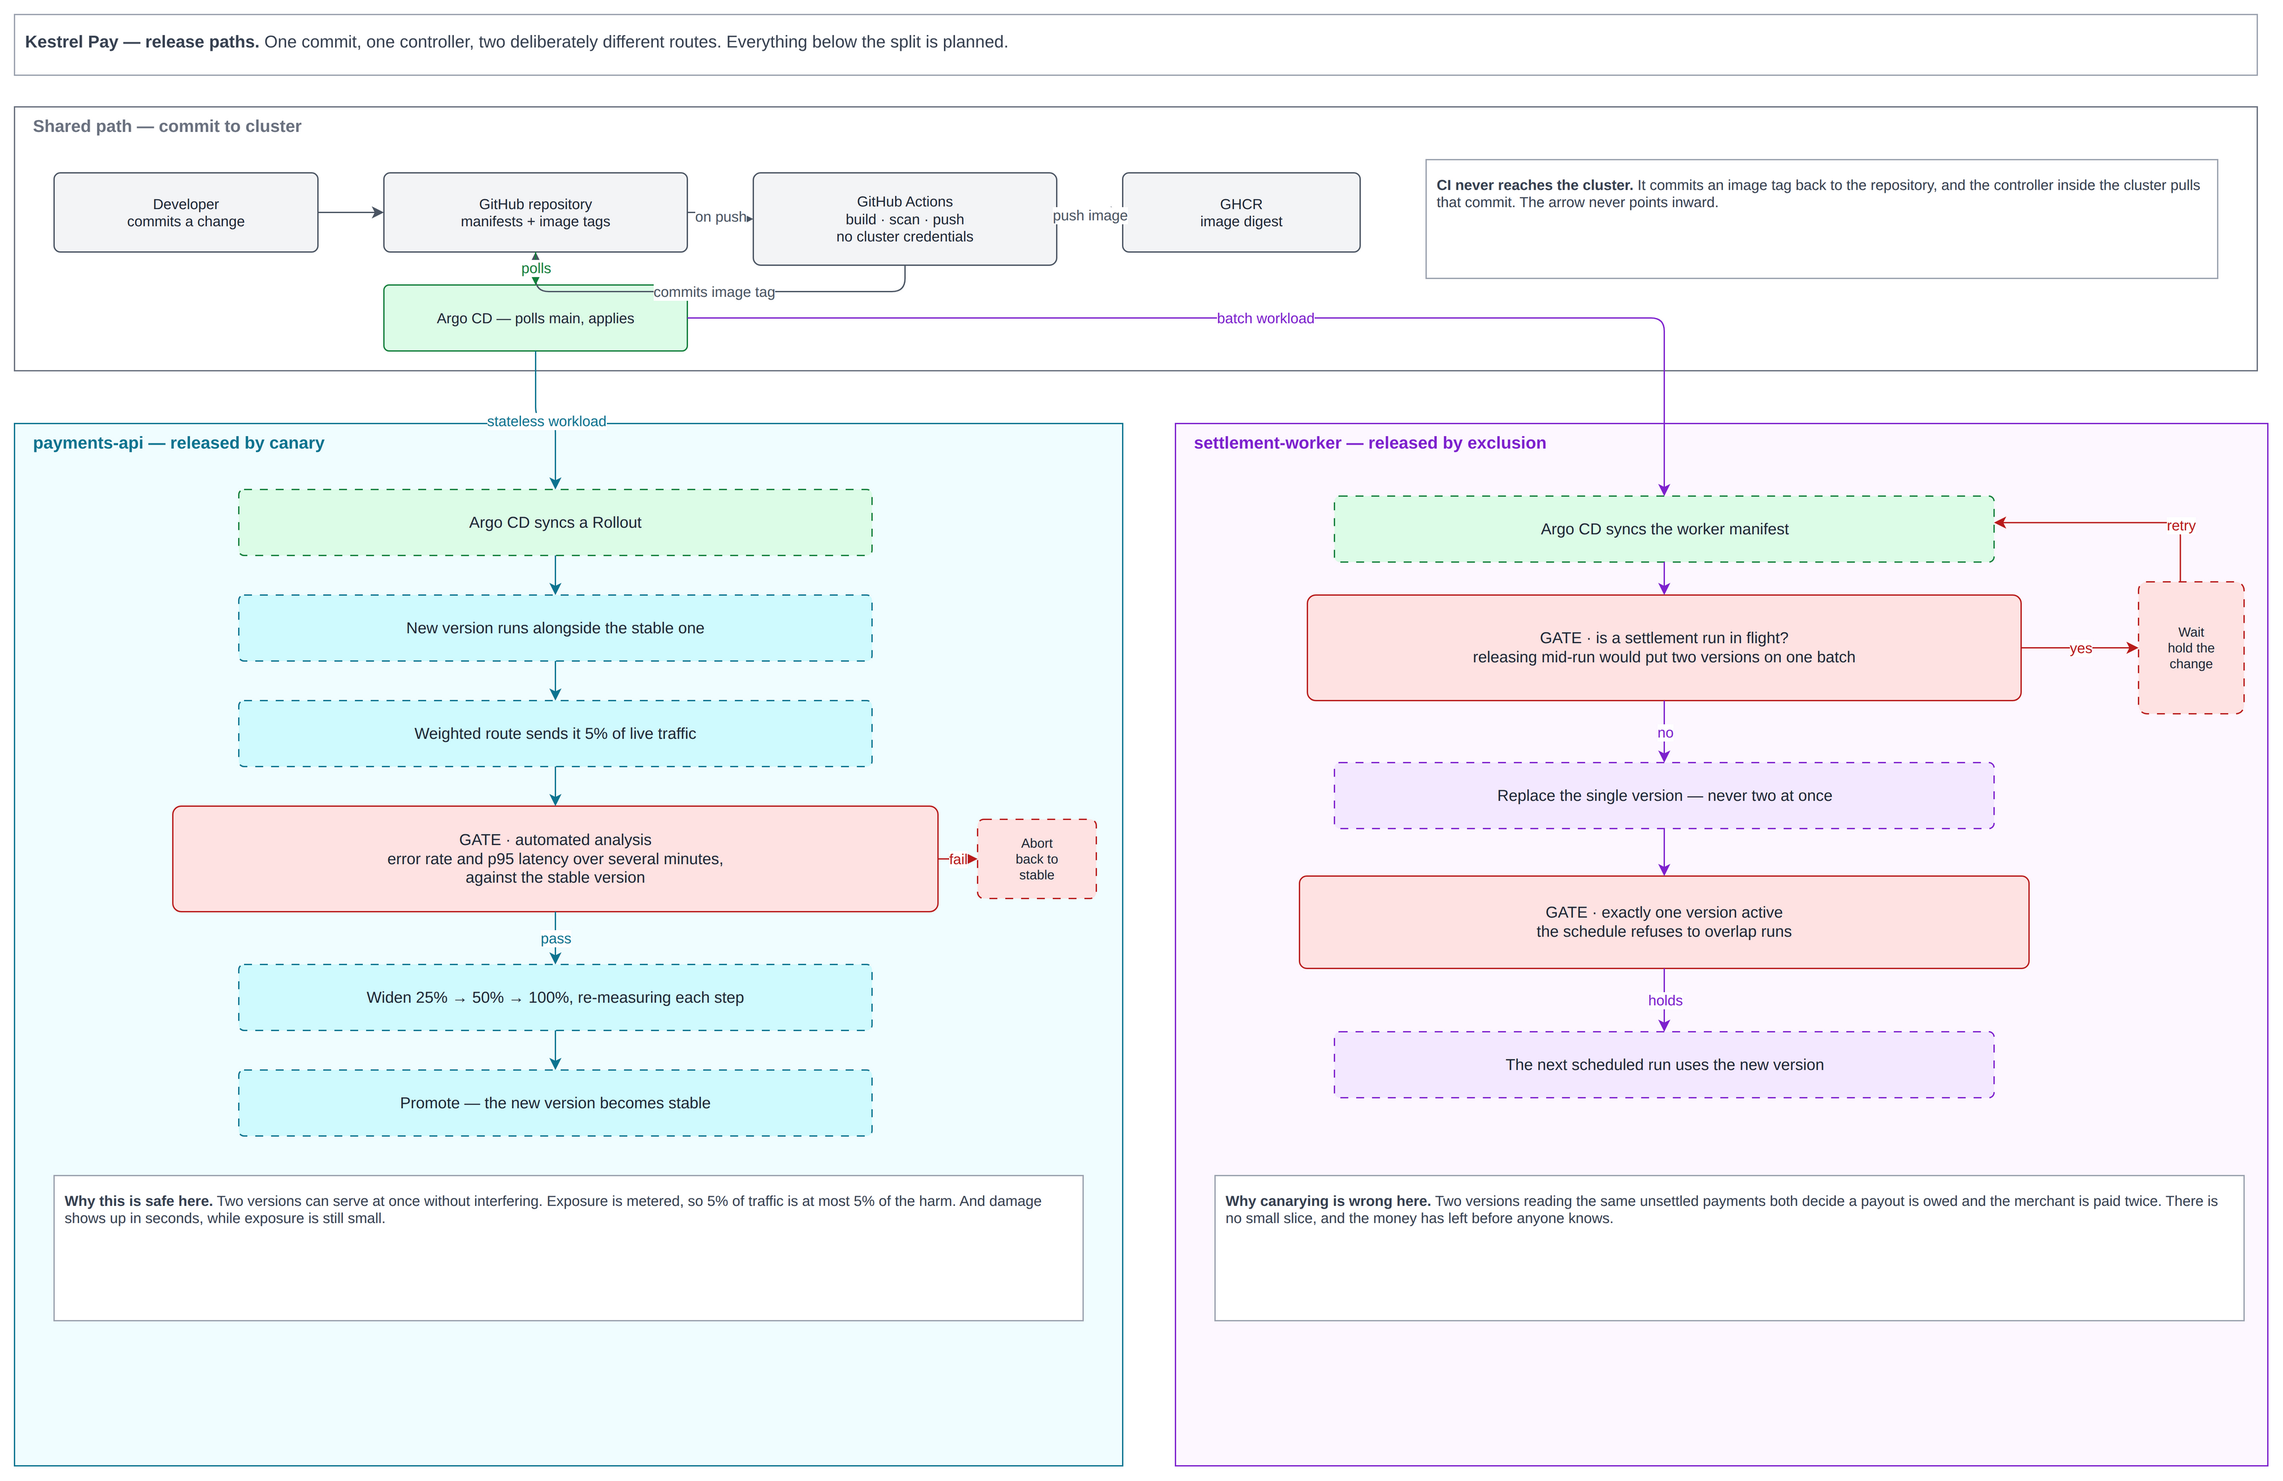
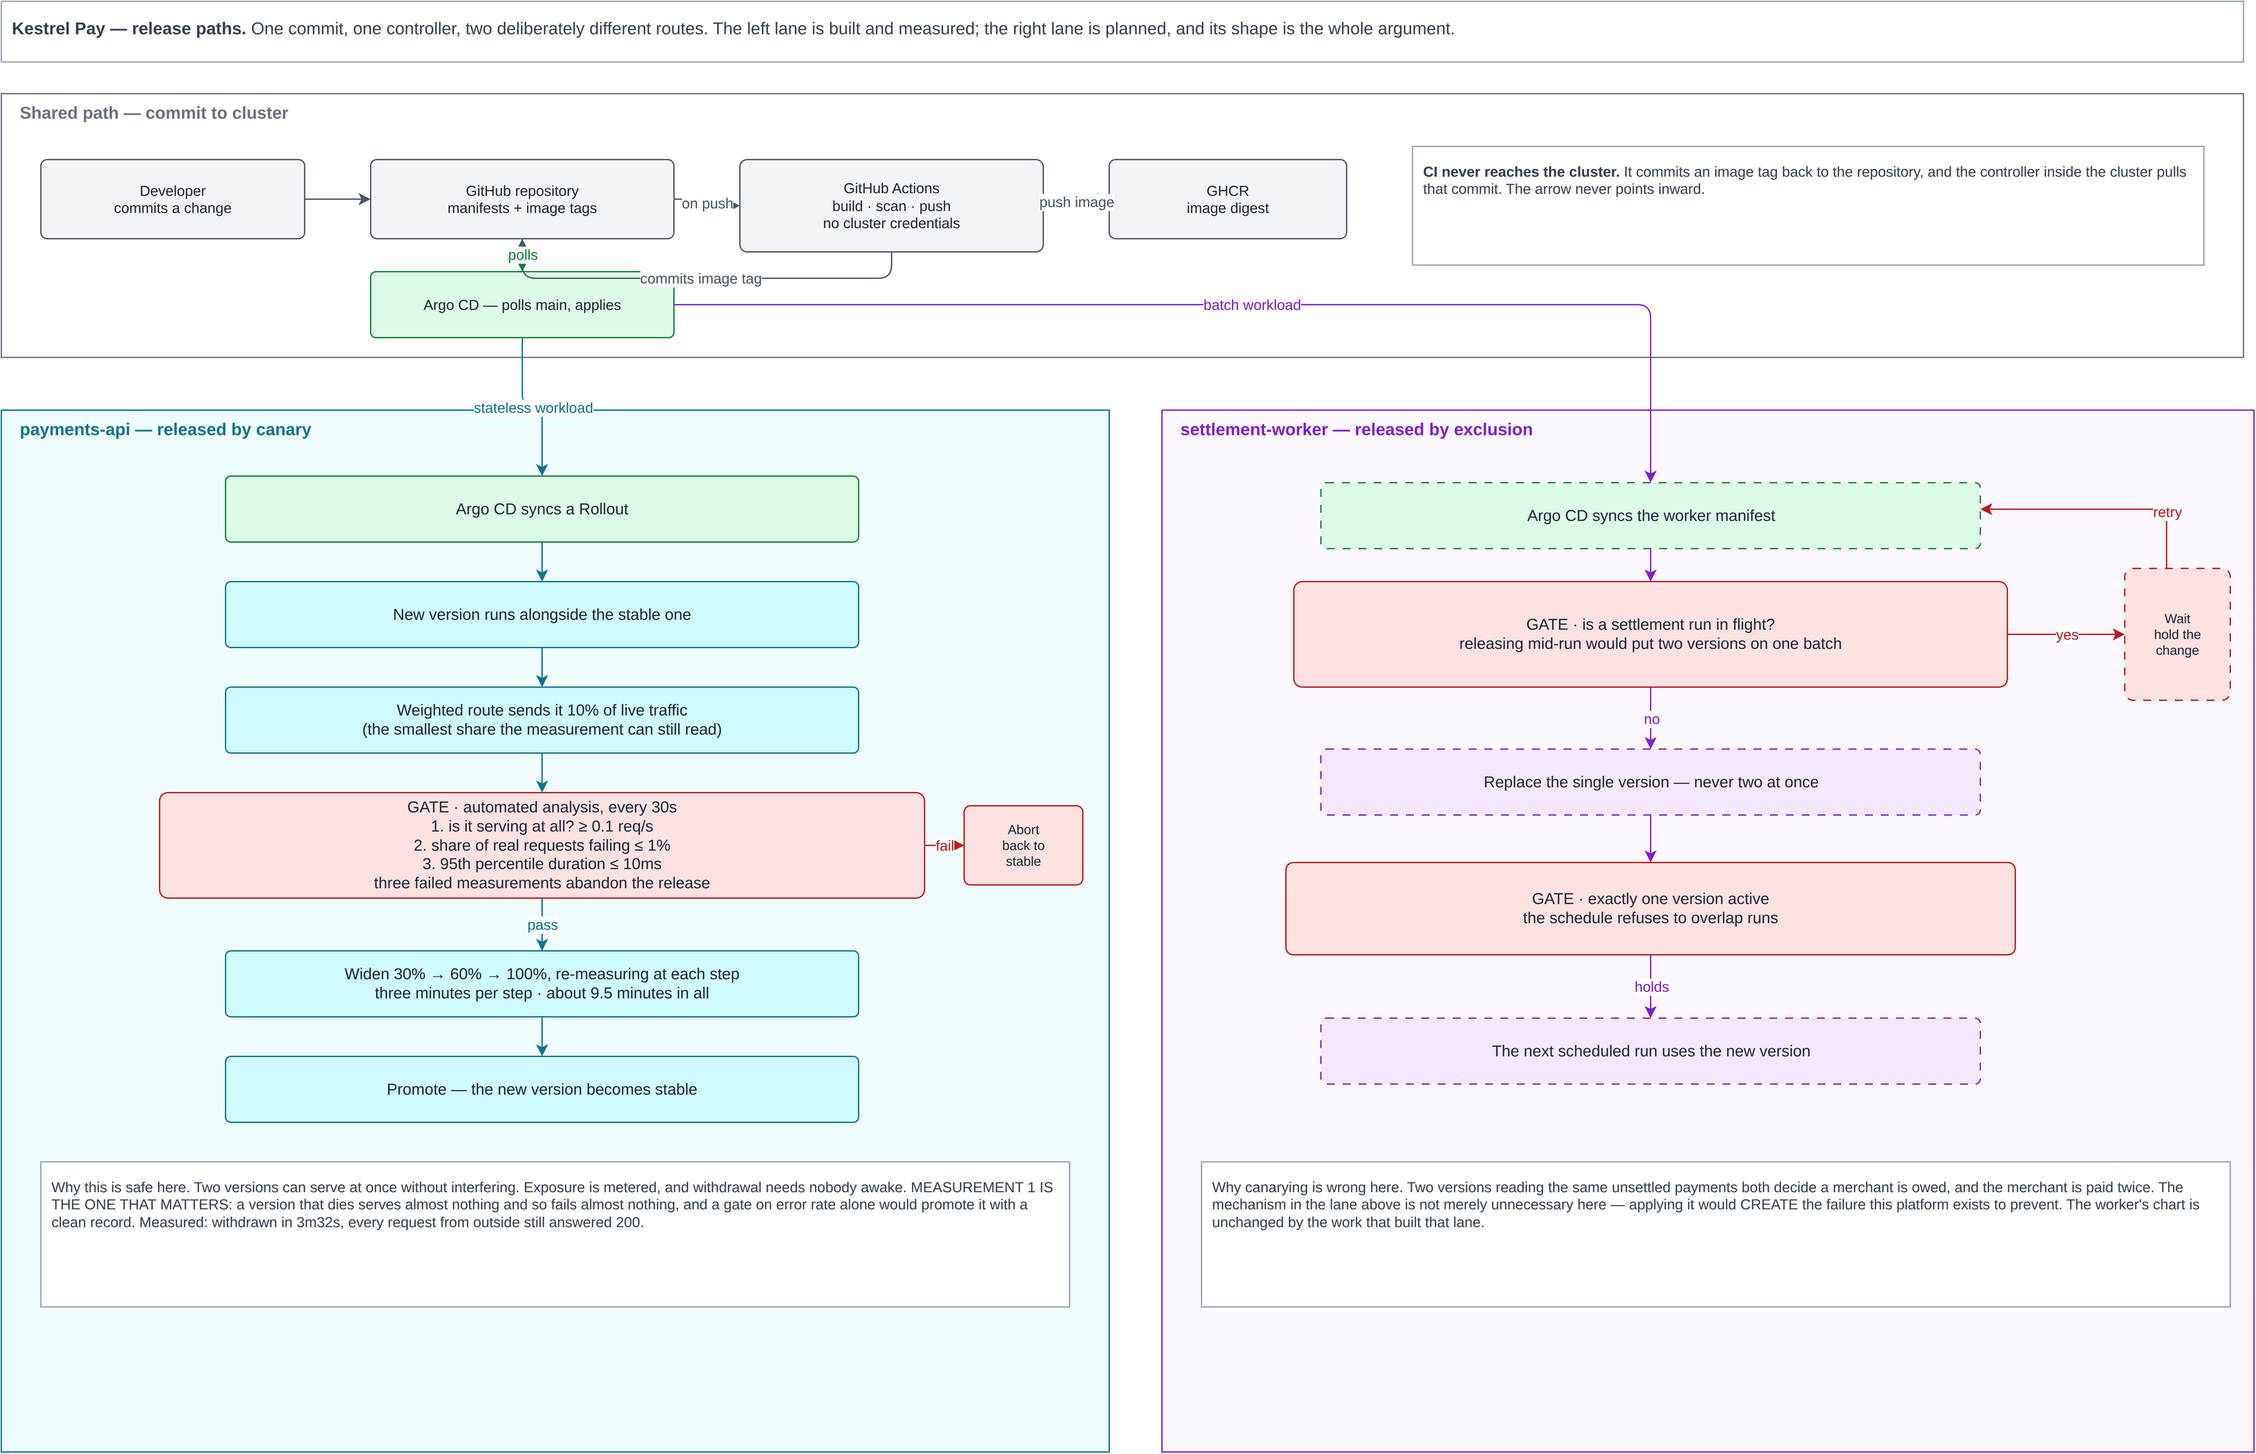
Describe how a new version arrives and redraw the release paths

diff --git a/docs/architecture.md b/docs/architecture.md
@@ -127,9 +127,10 @@ decision and this pipeline does not get to make decisions. The two environments
 are therefore expected to differ, and usually do.
 
 The second diagram is about the two workloads this platform exists for and why
-they cannot be released the same way. Both now run; neither is yet released in
-the way that distinguishes them. That difference is the subject of its own
-section below.
+they cannot be released the same way. One of them now is: the request-serving
+service arrives in weighted steps with a gate between them, described below.
+The batch worker still arrives by replacement, and always will — that asymmetry
+is the argument this repository exists to make.
 
 ### What the repository is authoritative over, exactly
 
@@ -373,14 +374,17 @@ nothing is answering at all.
 That difference is the safety property made visible. Before this, both were
 "the deploy didn't work".
 
-### No number here is declared too high
+### No number in a view is declared too high
 
-Nothing in any view says a rate is too great or a run too late. Those are
-release decisions, and they belong with whatever has to act on them rather than
-with the thing that describes the service. Choosing them here would mean
-choosing them before anything existed that had to use them, and the predictable
-result is a number picked to make a release pass rather than to describe
-reality.
+Nothing in any view says a rate is too great or a run too late, and that is
+still true. Those are release decisions, and they now live with the thing that
+acts on them — the gate described under "How a new version arrives" — rather
+than with the thing that describes the service.
+
+The separation was deliberate and it paid. Because no threshold existed while
+the indicators were being chosen, the numbers could be chosen later against a
+service that had already been described, instead of being reverse-engineered
+from whatever made a release pass.
 
 ### The measurements do not survive the platform
 
@@ -395,6 +399,177 @@ This is a decision rather than an oversight, and the cost is real: every figure
 quoted above was taken from a cluster that no longer exists. They are preserved
 as text written down at the time. Nobody can re-run those queries, and if one
 of them is wrong, the evidence that would correct it is gone.
+
+## How a new version arrives
+
+For the request-serving service, a new version is no longer a replacement. It
+is a sequence: run it beside the version already trusted, give it a small share
+of real traffic, measure what it does with that share, and either widen or
+withdraw.
+
+```
+  a commit changes the image digest
+            │
+            ▼
+  the delivery controller applies a Rollout, not a Deployment
+            │
+            ▼
+  10% of traffic ──▶ measure 3 min ──▶ 30% ──▶ measure ──▶ 60% ──▶ measure ──▶ 100%
+                           │                      │                   │
+                           └──────── any of these fails ──────────────┘
+                                             │
+                                             ▼
+                              all traffic back to the previous version
+```
+
+The share each version receives is written on the route object by the release
+controller and realised by the router. It is therefore observable from outside
+the cluster rather than only in configuration: asking the service which version
+answered, two hundred times at a sixty percent weight, returned the new version
+on 61.0 percent of them.
+
+### The numbers, and why those
+
+**Ten percent first, and the reason is the measurement rather than the
+exposure.** At the traffic this platform generates, ten percent gives the
+candidate about half a request a second — roughly fifty-eight requests in a
+measurement window. That is the smallest sample in which a failure can still be
+told apart from silence. At five percent the window holds twenty-nine requests
+and a single failure is 3.4 percent of the sample, so the measurement becomes
+coarser than any threshold worth setting, and a failing version is **more**
+likely to clear the first gate and reach a weight where it does more harm.
+Below a certain point, a smaller first step makes a release less safe.
+
+**Three minutes at each step** is six scrapes at the collector's thirty-second
+interval. Two minutes gives four samples and one gives two, and a rate computed
+from two samples is a difference rather than a rate. A longer pause costs
+release time but not exposure, because how fast a release is abandoned is set
+by the gate's own interval and tolerance rather than by how long a passing step
+waits.
+
+A complete release takes about nine and a half minutes against the under-one-
+minute a plain replacement would take. That is what is being bought: three
+chances to notice a problem while most traffic is still on the version that
+works.
+
+### What the gate measures, and the one that matters
+
+Three measurements every thirty seconds, with a one-minute warm-up so the first
+is not taken against an empty window. Three failed measurements abandon the
+release.
+
+1. **Is the candidate serving at all?** At least 0.1 requests a second.
+2. **What share of its real requests failed?** At most one percent.
+3. **How long did they take?** A 95th percentile under ten milliseconds.
+
+The first exists because of something discovered by reading the service
+closely: both of its failure switches act on the health endpoints, and the
+handler that serves requests returns success unconditionally. A candidate that
+cannot stay up serves almost nothing — and therefore **fails** almost nothing.
+
+To a query that counts failures, "answering everything correctly" and "not
+answering" are the same answer.
+
+That is not theoretical. A version was released with its liveness check failing.
+It became ready, took traffic, and then died repeatedly — six restarts. Its
+error share passed every measurement with a clean record, because the handful of
+requests it managed between restarts all succeeded. What withdrew it was the
+first measurement, reading 0.014 requests a second against a floor of 0.1.
+
+**A gate built on error rate alone would have promoted that version to stable
+on the strength of having never failed a request.**
+
+The same shape has now appeared three times in this platform: a sum over a
+selector matching nothing returns no series rather than zero; a scheduled job
+that stops being scheduled increments no failure counter; a release candidate
+that cannot serve reports a clean record. Every measurement of failure needs a
+companion measurement that the thing is running at all.
+
+The third measurement is nearly blind and is kept anyway. Every request this
+service has ever served fell inside the histogram's smallest bucket of five
+milliseconds, and the true mean is nine microseconds, so the reported percentile
+is interpolation rather than measurement. It can only detect a regression large
+enough to cross five milliseconds — a factor of about five hundred. The limit is
+in the bucket boundaries chosen when the metric was added, not in the threshold,
+and it is written down rather than hidden behind a precise-looking number.
+
+### Two failures, two different things catching them
+
+| how a version fails | what stops it | does the gate run? |
+|---|---|---|
+| never becomes ready | readiness, plus the controller refusing to weight an unready candidate | **no — it never runs** |
+| becomes ready, then dies | the gate's first measurement | yes |
+
+The first was a surprise and is worth being plain about. A version whose
+readiness check fails is never sent a request, so the release never leaves its
+first step and the gate is never reached. The release was stopped by
+capabilities this platform already had before any of this was built. **The most
+likely way a version fails is caught for free; the gate is for the one that
+isn't.**
+
+Neither substitutes for the other, and a reader who installs only the gate
+would be covering the rarer case.
+
+### Going back is not a release
+
+Restoring a previous version does not creep through the weights. The controller
+recognises a return to the version that was already trusted and goes straight
+there.
+
+That asymmetry is correct: forward is gradual because the destination is
+unproven, and back is immediate because the destination is the version that was
+working. A rollback that crawled through the same schedule would keep users on
+the broken version for the length of it.
+
+### Synchronisation does not fight a withdrawal
+
+Automatic synchronisation with drift correction is the property this whole
+platform is arranged around, and an abandoned release is, by construction, a
+cluster that has declined to run what the repository asks for. The two do not
+collide. Across two withdrawals the delivery controller reported the
+application **synced** while the release sat degraded, because synchronisation
+compares specifications and a refusal lives in status.
+
+Nothing was excluded from comparison to achieve this. It works because the
+repository declares no traffic weight at all and declares each address without
+the key the controller adds, so the fields the controller writes are fields
+nothing else has ever claimed.
+
+### The batch worker is not in any of this, and that is the point
+
+It has no rollout, no traffic weight, no gate and no route. Its chart is
+unchanged by this work, confirmed by comparing it against the state before the
+work began.
+
+The reason is the thing this repository exists to argue. A weighted release
+runs two versions of a service at once, briefly and on purpose. For the
+settlement worker, two versions running at once **is the hazard** — the same
+batch settled twice, a merchant paid twice. The mechanism described above is
+not merely unnecessary for that workload; applying it would create exactly the
+failure the platform is built to prevent.
+
+A reader who notices that one service canaries and the other does not should
+not conclude the second is unfinished. The absence is the design. What the
+worker does instead — refuse to overlap, and never retry — is described above
+under the two workloads.
+
+### Where the traffic comes from, and the thing that must be said about it
+
+This platform has no users. The request rates quoted above come from a
+generator running inside the cluster, sending about five requests a second
+through the front door with the host name a real client would use.
+
+It exists because a release gated on the share of requests failing needs
+requests to take a share of, and a share of nothing is not a measurement. It
+sends through the router rather than at the service, because load sent straight
+at a service bypasses the weighting entirely and would keep arriving at both
+versions whatever the release was doing — every number would look reasonable
+and none of them would be about the release.
+
+It is the one component here that would not exist in a real deployment, and it
+is named, labelled and listed as what it is. **No real user traffic has ever
+reached this platform.** A graph is more persuasive than a caveat, which is why
+the caveat is in four places.
 
 ## Getting in from outside
 
@@ -479,17 +654,38 @@ work, are in [runbook.md](runbook.md).
 
 ## Cost, and what is tagged
 
-Running costs about **$0.26 an hour**: roughly $0.10 for the control plane,
-$0.083 for two nodes, $0.045 for a single NAT gateway, $0.025 for the load
-balancer, and half a cent for a public address. Around $190 a month if left up,
-which is why the platform is built to be torn down between working sessions and
-rebuilt from this repository. Everything inside the cluster is reconciled from
-source control, so rebuilding costs time rather than work.
+Running costs **$0.34 an hour**, measured from a billed day rather than
+assembled from published rates:
 
-That is an estimate assembled from the published rates. Measured against a full
-day of running, the actual figure was **$0.235 an hour** — close enough to
-trust the estimate, and different enough to be worth quoting the measurement
-instead.
+| | per hour |
+|---|---|
+| three nodes | $0.114 |
+| cluster control plane | $0.100 |
+| address translation, storage, data transfer | $0.097 |
+| load balancing | $0.028 |
+
+About $250 a month if left up, which is why the platform is built to be torn
+down between working sessions and rebuilt from this repository. Everything
+inside the cluster is reconciled from source control, so rebuilding costs time
+rather than work.
+
+**Every estimate in this repository before this one was low, and the reason
+generalises.** The figures quoted previously were built from instance and
+control-plane rates — the prices that are easy to look up — and omitted the two
+lines that are metered by use. Address translation alone is a tenth of a dollar
+an hour here, comparable to the control plane and larger than the load
+balancer, and it is charged per gigabyte processed rather than per hour
+running. So the number rises with image pulls: a day of rebuilding and
+redeploying costs more per hour than a day of running the same thing unchanged.
+
+Anyone sizing a cluster from the first two lines of that table would be about
+twenty percent light. That is not a large error in absolute terms here, and it
+is the kind that scales with activity rather than with what is installed, which
+makes it the kind that surprises people.
+
+Two charges continue with the cluster torn down: the stored secrets and the key
+that encrypts them, about three cents a day together. They are the only things
+in this platform that survive a teardown, deliberately.
 
 The nodes were the most recent thing to change, and the reason is worth stating
 because it is the normal life of a sizing decision rather than a correction. The
@@ -552,8 +748,9 @@ report.
 ## What is deliberately absent
 
 No remote state: state is a local file, and the two configurations share only
-the cluster's name rather than reading each other's state. No progressive
-delivery, no release windows. Each is deferred rather than forgotten.
+the cluster's name rather than reading each other's state. No release windows
+for the batch worker yet. No blue/green, no service mesh, and no promotion to a
+second environment by anything other than a person editing a line.
 
 **No logs, and no alerting.** Both are absent on purpose rather than pending.
 Metrics answer whether a service is healthy; logs answer why it is not, and the
